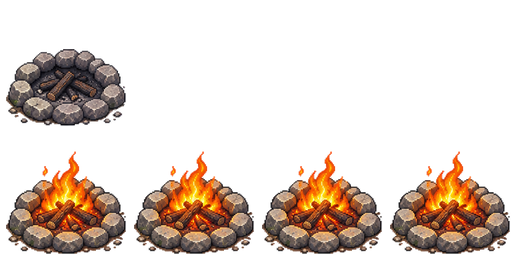
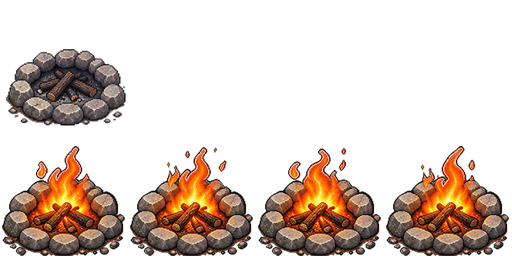
art(campfire): real flame frames - the fire was never animated
The four flame frames the ambient layer plays were one drawing pasted four
times (make_new_props.py props2), so the fire stood still. ChatGPT drew four
frames of the flames on real alpha (background removed in ChatGPT);
scripts/make_prop_frames.py (was make_fountain.py, now fountain and campfire)
cuts them, and holds the stones and logs to the first frame's pixels outside
the flames, so only the fire moves.

Claude-Session: https://claude.ai/code/session_015H8bBwBoYmHtzQn6aSaAEB

Changed region(s): [[0.0, 0.5625, 1.0, 1.0]]

diff --git a/scripts/make_prop_frames.py b/scripts/make_prop_frames.py
@@ -1,0 +1,80 @@
+"""
+Props that animate in place: ChatGPT drew each as a strip of frames (what stands still the same each
+time, only the water or the flames moving) on real transparency. Each frame is cut from its share of
+the strip, the same window from each (so the stone does not jitter from frame to frame), scaled alike
+to fit the prop's cells, stood on the bottom and centred, and laid side by side in the prop's modern
+sheet; data/ambient.json `objects.<id>.frames` plays them.
+
+  fountain   assets/lpc/new/fountain_anim_source.png -> Fountain A.png, frame k at cells [2k, 0, 2, 3]
+  campfire   assets/lpc/new/campfire_anim_source.png -> Fire, Camp.png, frame k at cells [k, 1, 1, 1]
+             (the row above, the cold campfire, is kept)
+
+Run from the repo root: python scripts/make_prop_frames.py [name ...]
+"""
+import sys
+
+import numpy as np
+from PIL import Image
+
+C = 128
+# name: (source, sheet, sheet size in cells, frames, frame cells w x h, first frame's cell, fill)
+PROPS = {
+    'fountain': ('assets/lpc/new/fountain_anim_source.png', 'assets/modern/lpc/Structure/Misc/Fountain A.png',
+                 (8, 3), 4, (2, 3), (0, 0), 0.94),
+    'campfire': ('assets/lpc/new/campfire_anim_source.png', 'assets/modern/lpc/Objects/Small Items/Fire, Camp.png',
+                 (4, 2), 4, (1, 1), (0, 1), 0.96),
+}
+# props whose still part ChatGPT redrew a little differently each frame: every frame takes the first
+# frame's pixels except where either frame has the moving part (here flame), so the stones and logs
+# stand exactly still and only the fire moves
+STEADY = {'campfire': 'flame'}
+
+
+def _flame(f):
+    """Flame and its glow: bright, saturated reds, oranges and yellows."""
+    rgb = f[..., :3].astype(int)
+    r, g, b = rgb[..., 0], rgb[..., 1], rgb[..., 2]
+    hot = (f[..., 3] > 40) & (r > 170) & (r - b > 90) & (g < r + 10)
+    from scipy import ndimage
+    return ndimage.binary_dilation(hot, iterations=12)   # (its dark outline too)
+
+
+def build(name):
+    src, out, (SW, SH), FRAMES, (CW, CH), (c0, r0), FILL = PROPS[name]
+    a = np.array(Image.open(src).convert('RGBA'))
+    a[a[..., 3] <= 24] = 0
+    # the strip's shares: the same window cut from each (the union of the drawings in them, in the
+    # share's own coordinates), so whatever stands still in the drawing stands still on the map
+    q = a.shape[1] / FRAMES
+    x0s, x1s, y0s, y1s = [], [], [], []
+    for k in range(FRAMES):
+        ys, xs = np.nonzero(a[:, int(k * q):int((k + 1) * q), 3] > 0)
+        x0s.append(xs.min()); x1s.append(xs.max() + 1); y0s.append(ys.min()); y1s.append(ys.max() + 1)
+    x0, x1, y0, y1 = min(x0s), max(x1s), min(y0s), max(y1s)
+    bw, bh = x1 - x0, y1 - y0
+    s = min(CW * C * FILL / bw, CH * C * FILL / bh)
+    try:
+        sheet = Image.open(out).convert('RGBA')
+        if sheet.size != (SW * C, SH * C):
+            sheet = Image.new('RGBA', (SW * C, SH * C), (0, 0, 0, 0))
+    except FileNotFoundError:
+        sheet = Image.new('RGBA', (SW * C, SH * C), (0, 0, 0, 0))
+    clear = Image.new('RGBA', (CW * C, CH * C), (0, 0, 0, 0))
+    first = a[y0:y1, int(0 * q) + x0:int(0 * q) + x1]
+    for k in range(FRAMES):
+        ox = int(k * q)
+        frame = a[y0:y1, ox + x0:ox + x1].copy()
+        if name in STEADY and k:
+            keep = ~(_flame(first) | _flame(frame))
+            frame[keep] = first[keep]
+        im = Image.fromarray(frame, 'RGBA').resize((round(bw * s), round(bh * s)), Image.LANCZOS)
+        px, py = (c0 + k * CW) * C, r0 * C
+        sheet.paste(clear, (px, py))
+        sheet.alpha_composite(im, (px + (CW * C - im.width) // 2, py + CH * C - im.height))
+    sheet.save(out)
+    print('wrote', out, sheet.size)
+
+
+if __name__ == '__main__':
+    for n in (sys.argv[1:] or PROPS):
+        build(n)

diff --git a/scripts/make_new_props.py b/scripts/make_new_props.py
@@ -36,7 +36,7 @@ SHEETS = {
     'baskets':  ('lpc/Objects/Small Items/Baskets A.png', (3, 2)),
     'lamp':     ('lpc/Objects/Furniture/Lighting, Outdoors.png', (2, 3)),
     'hay':      ('lpc/Objects/Small Items/Hay & Straw.png', (4, 3)),
-    'fountain': ('lpc/Structure/Misc/Fountain A.png', (8, 3)),   # four frames side by side (make_fountain.py)
+    'fountain': ('lpc/Structure/Misc/Fountain A.png', (8, 3)),   # four frames side by side (make_prop_frames.py)
     'runestone': ('lpc/Objects/Furniture/Wolf Stone.png', (4, 4)),
     'campfire': ('lpc/Objects/Small Items/Fire, Camp.png', (4, 2)),
     'pillar':   ('lpc/Structure/Pillars/Stone Pillar A.png', (9, 12)),
@@ -126,9 +126,9 @@ RECIPES = {
                 + [('flowers', [c, r, 1, 1]) for r in (2, 3) for c in (5, 6, 7, 8)]),
     'props2': ('props2_source.png', [
         ('lamp', [0, 0, 1, 3]), ('lamp', [1, 0, 1, 3]), (None, None), (None, None),   # (the hay: 'hay' below)
-        (None, None), ('runestone', [0, 0, 2, 2]),   # (the fountain: scripts/make_fountain.py, animated)
+        (None, None), ('runestone', [0, 0, 2, 2]),   # (the fountain: scripts/make_prop_frames.py, animated)
         ('runestone', [2, 0, 2, 2]), ('campfire', [0, 0, 1, 1]),
-        ('campfire', [0, 1, 1, 1], [[1, 1, 1, 1], [2, 1, 1, 1], [3, 1, 1, 1]]),
+        (None, None),   # (the burning campfire's four flame frames: make_prop_frames.py)
         ('pillar', [0, 0, 2, 3]), ('pillar', [3, 0, 2, 3]), ('pillar', [6, 0, 2, 3]), ('pillar', [2, 0, 1, 3]),
         ('clan_tents', [0, 0, 3, 3]), ('clan_tents', [3, 0, 3, 3]), ('pool', [0, 0, 3, 3])]),
     # the loose hay and straw, redrawn with real transparency (the white-keyed piles kept specks of
